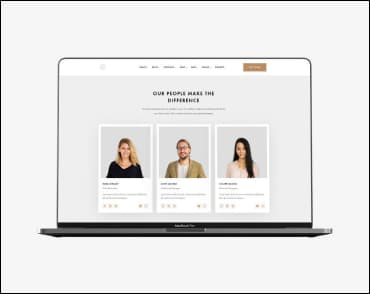
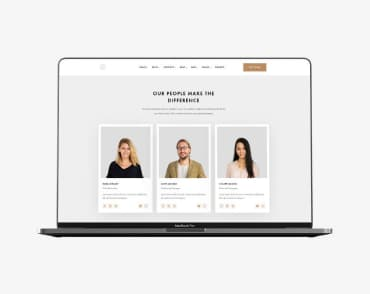
fix minor mistakes

Changed region(s): [[0.0, 0.0, 1.0, 1.0]]

diff --git a/css/styles.css b/css/styles.css
@@ -10,6 +10,7 @@
     --topline-color: #ECECEC;
     --active-color: #188CE8;
     --container-color: #EEEEEE;
+    --contact-color: rgba(255, 255, 255, 0.6);
 }
 
 body {
@@ -18,12 +19,12 @@ body {
 } 
 
 .logo {
-    font-family: 'Ralevay', sans-serif;
+    font-family: 'Raleway', sans-serif;
     font-size: 26px;
     font-weight: 700;
     text-decoration: none;
-    line-height: 1,2;
-    letter-spacing: 0,03em;
+    line-height: 1.2;
+    letter-spacing: 0.03em;
     color: var(--accent-color);
 }
 
@@ -38,9 +39,9 @@ body {
 .nav-link {
     font-size: 14px;
     font-weight: 500;
-    line-height: 1,2;
+    line-height: 1.2;
     text-decoration: none;
-    letter-spacing: 0,02em;
+    letter-spacing: 0.02em;
     color: var(--head-color);
 }
 
@@ -56,9 +57,9 @@ body {
 .contact-link {
     font-size: 14px;
     font-weight: 500;
-    line-height: 1,2;
+    line-height: 1.2;
     text-decoration: none;
-    letter-spacing: 0,02em;
+    letter-spacing: 0.02em;
     color: var(--primary-color);
 }
 
@@ -73,10 +74,9 @@ body {
 
 .title {
     font-size: 44px;
-    font-weight: 900;
     text-transform: uppercase;
-    line-height: 1,3;
-    letter-spacing: 0,06em;
+    line-height: 1.3;
+    letter-spacing: 0.06em;
     color: var(--inversion-color);
 
 }
@@ -112,9 +112,8 @@ body {
 
 .benefit-title {
     font-size: 14px;
-    font-weight: 700;
-    line-height: 1,2;
-    letter-spacing: 0,03em;
+    line-height: 1.2;
+    letter-spacing: 0.03em;
     text-align: left;
     text-transform: uppercase;
     color: var(--head-color);
@@ -122,10 +121,9 @@ body {
 
 .benefit-text {
     font-size: 14px;
-    font-weight: 400;
-    line-height: 1,7;
+    line-height: 1.7;
     text-align: left;
-    letter-spacing: 0,03em;
+    letter-spacing: 0.03em;
     color: var(--primary-color);
 
 }
@@ -133,9 +131,8 @@ body {
 .action-title,
 .team-title {
     font-size: 36px;
-    font-weight: 700;
-    line-height: 1,1;
-    letter-spacing: 0,03em;
+    line-height: 1.1;
+    letter-spacing: 0.03em;
     color: var(--head-color);
 
 }
@@ -150,17 +147,15 @@ body {
 
 .member-title {
     font-size: 16px;
-    font-weight: 500;
-    line-height: 1,2;
-    letter-spacing: 0,03em;
+    line-height: 1.2;
+    letter-spacing: 0.03em;
     color: var(--head-color);
 }
 
 .member-text {
     font-size: 16px;
-    font-weight: 400;
-    line-height: 1,2;
-    letter-spacing: 0,03em;
+    line-height: 1.2;
+    letter-spacing: 0.03em;
     color: var(--primary-color);
 }
 
@@ -176,10 +171,14 @@ body {
     font-size: 14px;
     font-weight: 400;
     font-style: normal;
-    line-height: 1,7;
-    letter-spacing: 0,03em;
+    line-height: 1.7;
+    letter-spacing: 0.03em;
     text-decoration: none;
     color: var(--inversion-color);
+}
+
+.footer-contact {
+    color: var(--contact-color);
 }
 
 .footer-contact:hover,
@@ -188,10 +187,11 @@ body {
 }
 
 .filter-button {
+    font-family: inherit;
     font-size: 16px;
     font-weight: 500;
-    line-height: 1,6;
-    letter-spacing: 0,03em;
+    line-height: 1.6;
+    letter-spacing: 0.03em;
     color: var(--head-color);
     background-color: var(--team-color);
     border: 0cm;
@@ -213,17 +213,15 @@ body {
 
 .project-title {
     font-size: 18px;
-    font-weight: 700;
     line-height: 2;
-    letter-spacing: 0,06em;
+    letter-spacing: 0.06em;
     color: var(--head-color);
 
 }
 
 .project-text {
     font-size: 16px;
-    font-weight: 400;
-    line-height: 1,8;
-    letter-spacing: 0,03em;
+    line-height: 1.8;
+    letter-spacing: 0.03em;
     color: var(--primary-color);
 }

diff --git a/portfolio.html b/portfolio.html
@@ -4,12 +4,11 @@
     <meta charset="UTF-8" />
     <meta http-equiv="X-UA-Compatible" content="IE=edge" />
     <meta name="viewport" content="width=device-width, initial-scale=1.0" />
-    <link rel="stylesheet" href="./css/styles.css" />
     <link rel="preconnect" href="https://fonts.googleapis.com">
     <link rel="preconnect" href="https://fonts.gstatic.com" crossorigin>
     <link href="https://fonts.googleapis.com/css2?family=Raleway:wght@700&family=Roboto:wght@400;500;700;900&display=swap" rel="stylesheet">
     <title>Document</title>
-    
+    <link rel="stylesheet" href="./css/styles.css" />
   </head>
     <body>
     <header>

diff --git a/index.html b/index.html
@@ -4,7 +4,6 @@
     <meta charset="UTF-8" />
     <meta http-equiv="X-UA-Compatible" content="IE=edge" />
     <meta name="viewport" content="width=device-width, initial-scale=1.0" />
-    <link rel="stylesheet" href="./css/styles.css" />
     <link rel="preconnect" href="https://fonts.googleapis.com" />
     <link rel="preconnect" href="https://fonts.gstatic.com" crossorigin />
     <link
@@ -12,6 +11,7 @@
       rel="stylesheet"
     />
     <title>Document</title>
+    <link rel="stylesheet" href="./css/styles.css" />
   </head>
   <body>
     <header>
